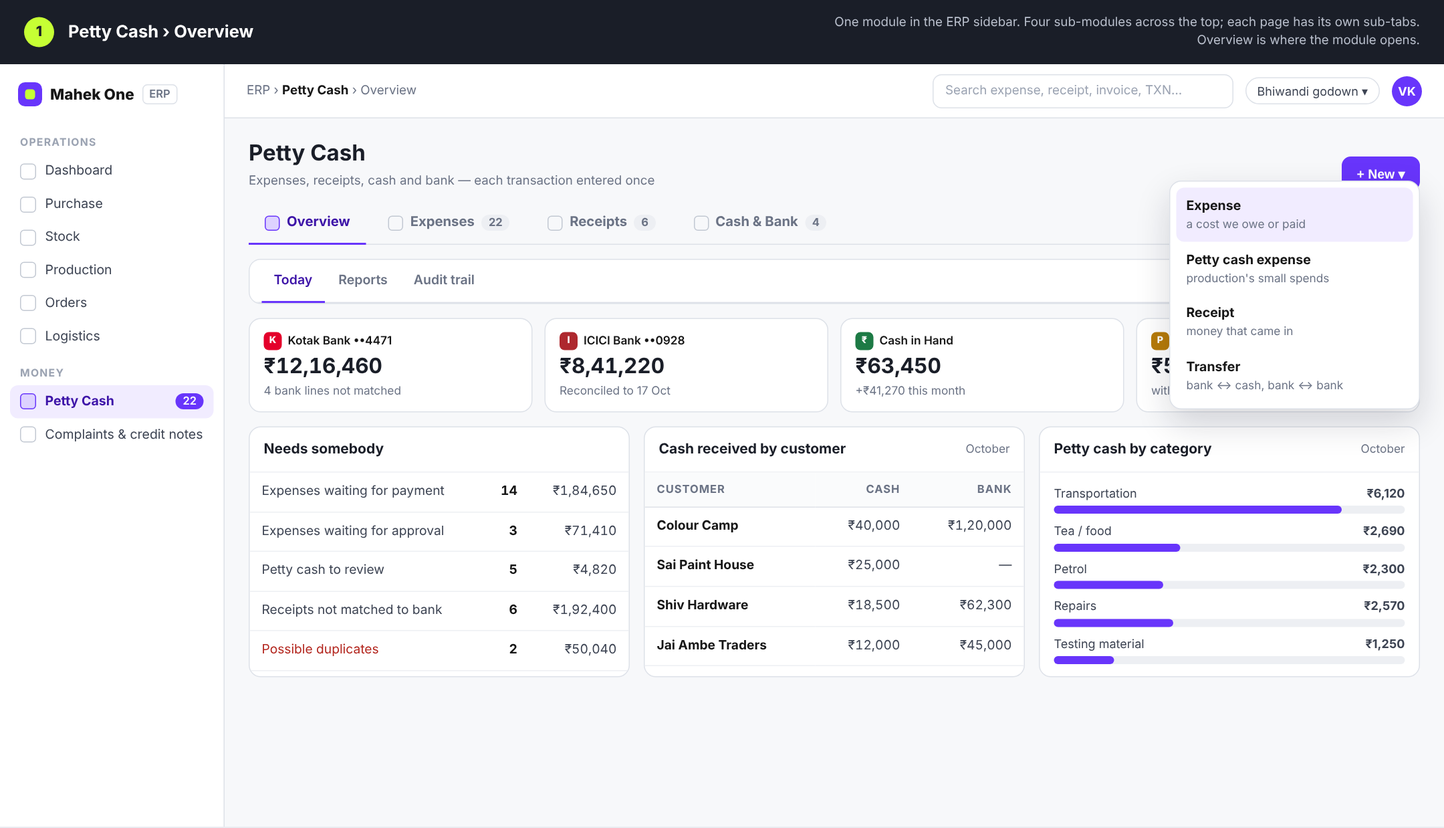
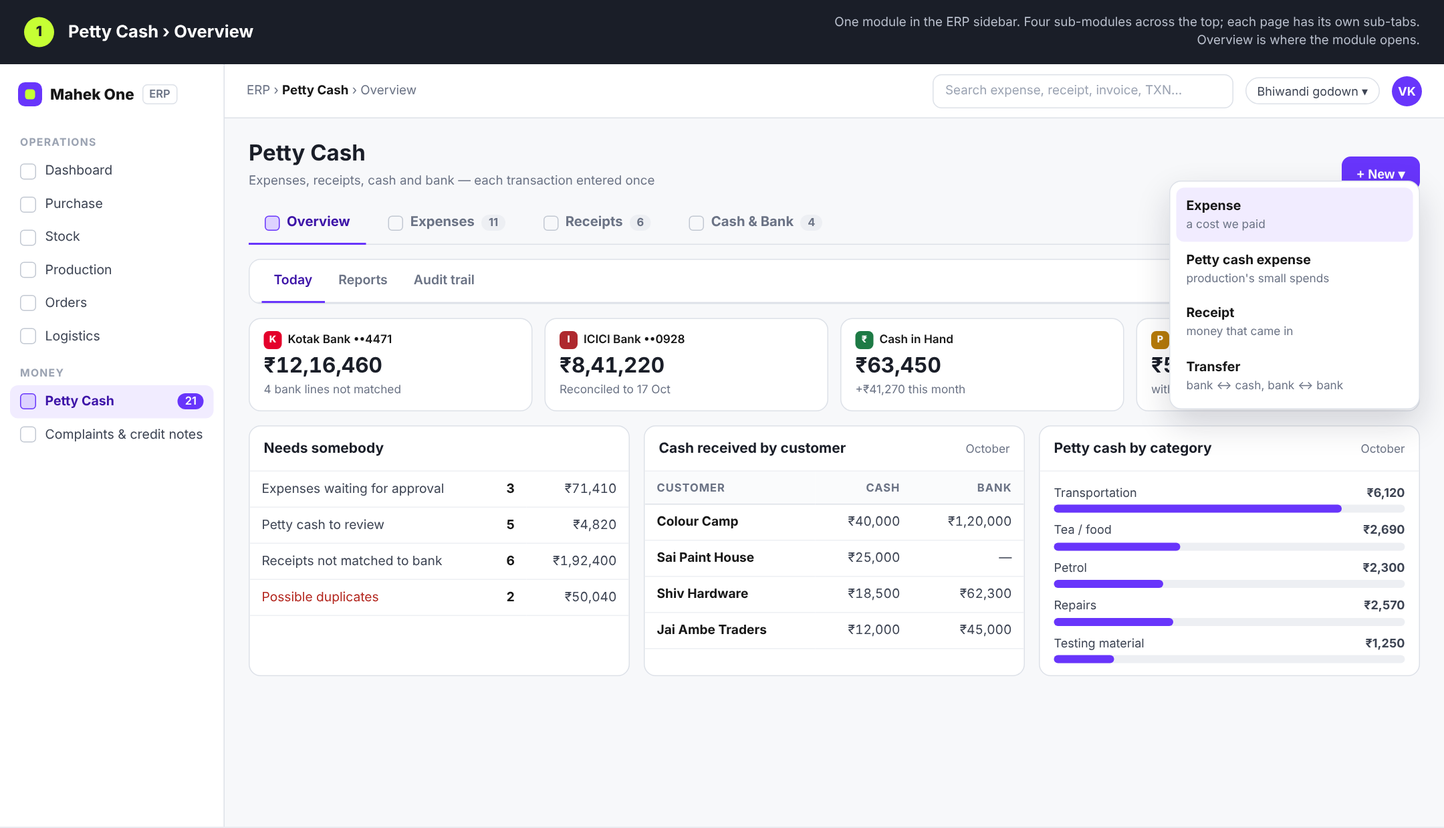
docs(erp): petty cash expenses are entered when paid — no pending state
Removes the Not paid / Pending choice, the Pending payment tab and the
Mark as Paid screen; New expense now asks the account, date, mode and UTR.

Claude-Session: https://claude.ai/code/session_01Lrq5JNPk5tZnbbz81iA7vf

diff --git a/docs/erp/money-flow/mockup.html b/docs/erp/money-flow/mockup.html
@@ -190,7 +190,7 @@ tr.sel td{background:var(--brand-soft)}
    </div>
    <div style="display:grid;grid-template-columns:1fr 1fr 1fr;gap:14px">
     <div class="card"><div class="dh" style="padding:12px 14px"><h3 style="font-size:14px">Needs somebody</h3></div>
-     <table><tr><td>Expenses waiting for payment</td><td class="r"><b>14</b></td><td class="r">₹1,84,650</td></tr><tr><td>Expenses waiting for approval</td><td class="r"><b>3</b></td><td class="r">₹71,410</td></tr><tr><td>Petty cash to review</td><td class="r"><b>5</b></td><td class="r">₹4,820</td></tr><tr><td>Receipts not matched to bank</td><td class="r"><b>6</b></td><td class="r">₹1,92,400</td></tr><tr><td style="color:var(--danger)">Possible duplicates</td><td class="r"><b>2</b></td><td class="r">₹50,040</td></tr></table></div>
+     <table><tr><td>Expenses waiting for approval</td><td class="r"><b>3</b></td><td class="r">₹71,410</td></tr><tr><td>Petty cash to review</td><td class="r"><b>5</b></td><td class="r">₹4,820</td></tr><tr><td>Receipts not matched to bank</td><td class="r"><b>6</b></td><td class="r">₹1,92,400</td></tr><tr><td style="color:var(--danger)">Possible duplicates</td><td class="r"><b>2</b></td><td class="r">₹50,040</td></tr></table></div>
     <div class="card"><div class="dh" style="padding:12px 14px"><h3 style="font-size:14px">Cash received by customer</h3><span class="sm2 ml">October</span></div>
      <table><tr><th>Customer</th><th class="r">Cash</th><th class="r">Bank</th></tr><tr><td><b>Colour Camp</b></td><td class="r">₹40,000</td><td class="r">₹1,20,000</td></tr><tr><td><b>Sai Paint House</b></td><td class="r">₹25,000</td><td class="r">—</td></tr><tr><td><b>Shiv Hardware</b></td><td class="r">₹18,500</td><td class="r">₹62,300</td></tr><tr><td><b>Jai Ambe Traders</b></td><td class="r">₹12,000</td><td class="r">₹45,000</td></tr></table></div>
     <div class="card"><div class="dh" style="padding:12px 14px"><h3 style="font-size:14px">Petty cash by category</h3><span class="sm2 ml">October</span></div>
@@ -203,7 +203,7 @@ tr.sel td{background:var(--brand-soft)}
      </div></div>
    </div>
    <div class="newmenu">
-    <div class="h"><b>Expense</b><span>a cost we owe or paid</span></div>
+    <div class="h"><b>Expense</b><span>a cost we paid</span></div>
     <div><b>Petty cash expense</b><span>production's small spends</span></div>
     <div><b>Receipt</b><span>money that came in</span></div>
     <div><b>Transfer</b><span>bank ↔ cash, bank ↔ bank</span></div>
@@ -215,7 +215,7 @@ tr.sel td{background:var(--brand-soft)}
 
 <!-- ============ 2. EXPENSES LIST ============ -->
 <section class="shot" id="s2">
-<div class="cap"><div class="n">2</div><h1>Petty Cash › Expenses — Pending payment</h1><p>Pending, Paid, Production petty cash and the rest are sub-tabs of one list. A pending expense moves no balance.</p></div>
+<div class="cap"><div class="n">2</div><h1>Petty Cash › Expenses — Paid</h1><p>An expense is entered when it is paid, so every row already says which account the money left. Production petty cash, Advances and the rest are sub-tabs of the same list.</p></div>
 <div class="app">
  <aside class="side" data-on="Petty Cash"></aside>
  <div class="main">
@@ -223,16 +223,16 @@ tr.sel td{background:var(--brand-soft)}
   <div class="pg">
    <div class="modhead" data-sub="Expenses"></div>
    <div class="card">
-    <div class="tabs"><div class="tab on">Pending payment<span class="c">14</span></div><div class="tab">Paid<span class="c">58</span></div><div class="tab">Production petty cash<span class="c">5</span></div><div class="tab">Advances<span class="c">3</span></div><div class="tab">Needs approval<span class="c">3</span></div><div class="tab">Cancelled<span class="c">1</span></div><div class="tab">All</div></div>
-    <div class="tool"><div class="in" style="width:200px">This month ▾</div><div class="in" style="width:180px">Category: All ▾</div><div class="in" style="width:180px">Vendor: All ▾</div><div class="ml sm2">14 rows · ₹1,84,650</div><button class="btn">Export</button></div>
+    <div class="tabs"><div class="tab on">Paid<span class="c">58</span></div><div class="tab">Production petty cash<span class="c">5</span></div><div class="tab">Advances<span class="c">3</span></div><div class="tab">Needs approval<span class="c">3</span></div><div class="tab">Cancelled<span class="c">1</span></div><div class="tab">All</div></div>
+    <div class="tool"><div class="in" style="width:200px">This month ▾</div><div class="in" style="width:180px">Category: All ▾</div><div class="in" style="width:180px">Vendor: All ▾</div><div class="in" style="width:180px">Paid from: All ▾</div><div class="ml sm2">58 rows · ₹6,42,310</div><button class="btn">Export</button></div>
     <table>
-     <tr><th>TXN ID</th><th>Date</th><th>Category</th><th>Vendor / payee</th><th>Invoice no.</th><th>Description</th><th class="r">Amount</th><th>Status</th><th>Due</th><th></th></tr>
-     <tr class="hl"><td class="mono">TXN-26-00418</td><td>18 Oct</td><td>Packing material</td><td><b>Shree Packaging Co.</b></td><td>SPC/2627/0912</td><td>500 × 5L corrugated boxes</td><td class="r"><b>₹48,500</b></td><td><span class="pill pend">Pending</span></td><td style="color:var(--danger);font-weight:600">2 days late</td><td><button class="btn sm ok">Mark as Paid</button></td></tr>
-     <tr><td class="mono">TXN-26-00415</td><td>17 Oct</td><td>Repairs &amp; maintenance</td><td><b>Om Sai Engineering</b></td><td>OSE-221</td><td>Mixer gearbox repair</td><td class="r"><b>₹22,800</b></td><td><span class="pill pend">Pending</span></td><td>24 Oct</td><td><button class="btn sm ok">Mark as Paid</button></td></tr>
-     <tr><td class="mono">TXN-26-00411</td><td>16 Oct</td><td>Electricity</td><td><b>MSEDCL</b></td><td>0411829366</td><td>Factory bill — Sep</td><td class="r"><b>₹63,140</b></td><td><span class="pill pend">Pending</span></td><td>21 Oct</td><td><button class="btn sm ok">Mark as Paid</button></td></tr>
-     <tr><td class="mono">TXN-26-00402</td><td>12 Oct</td><td>Rent</td><td><b>Patel Estates</b></td><td>PE/OCT/26</td><td>Godown rent — Oct</td><td class="r"><b>₹36,000</b></td><td><span class="pill pend">Pending</span></td><td>20 Oct</td><td><button class="btn sm ok">Mark as Paid</button></td></tr>
-     <tr><td class="mono">TXN-26-00399</td><td>11 Oct</td><td>Packing material</td><td><b>Shree Packaging Co.</b></td><td>SPC/2627/0912</td><td>500 × 5L corrugated boxes</td><td class="r"><b>₹48,500</b></td><td><span class="pill unm">Possible duplicate</span></td><td>—</td><td><span class="link">Review</span></td></tr>
-     <tr><td class="mono">TXN-26-00396</td><td>10 Oct</td><td>Freight</td><td><b>VRL Logistics</b></td><td>VRL/BH/88104</td><td>Inward freight — MEK</td><td class="r"><b>₹9,860</b></td><td><span class="pill pend">Pending</span></td><td>27 Oct</td><td><button class="btn sm ok">Mark as Paid</button></td></tr>
+     <tr><th>TXN ID</th><th>Date</th><th>Category</th><th>Vendor / payee</th><th>Invoice no.</th><th class="r">Amount</th><th>Paid from</th><th>Bank match</th></tr>
+     <tr class="hl"><td class="mono">TXN-26-00418</td><td>18 Oct</td><td>Packing material</td><td><b>Shree Packaging Co.</b></td><td>SPC/2627/0912</td><td class="r"><b>₹48,500</b></td><td><span class="acc"><i class="k">K</i>Kotak · NEFT</span></td><td><span class="pill pend">Not matched</span></td></tr>
+<tr><td class="mono">TXN-26-00415</td><td>17 Oct</td><td>Repairs &amp; maintenance</td><td><b>Om Sai Engineering</b></td><td>OSE-221</td><td class="r"><b>₹22,800</b></td><td><span class="acc"><i class="ic">I</i>ICICI · cheque 004127</span></td><td><span class="pill mat">Matched</span></td></tr>
+<tr><td class="mono">TXN-26-00411</td><td>16 Oct</td><td>Electricity</td><td><b>MSEDCL</b></td><td>0411829366</td><td class="r"><b>₹63,140</b></td><td><span class="acc"><i class="k">K</i>Kotak · UPI</span></td><td><span class="pill mat">Matched</span></td></tr>
+<tr><td class="mono">TXN-26-00402</td><td>12 Oct</td><td>Rent</td><td><b>Patel Estates</b></td><td>PE/OCT/26</td><td class="r"><b>₹36,000</b></td><td><span class="acc"><i class="ic">I</i>ICICI · NEFT</span></td><td><span class="pill mat">Matched</span></td></tr>
+<tr><td class="mono">TXN-26-00399</td><td>11 Oct</td><td>Packing material</td><td><b>Shree Packaging Co.</b></td><td>SPC/2627/0912</td><td class="r"><b>₹48,500</b></td><td><span class="acc"><i class="k">K</i>Kotak · NEFT</span></td><td><span class="pill unm">Duplicate?</span></td></tr>
+<tr><td class="mono">TXN-26-00396</td><td>10 Oct</td><td>Freight</td><td><b>VRL Logistics</b></td><td>VRL/BH/88104</td><td class="r"><b>₹9,860</b></td><td><span class="acc"><i class="ca">₹</i>Cash in Hand</span></td><td><span class="sm2">Cash — none</span></td></tr>
     </table>
    </div>
   </div>
@@ -242,7 +242,7 @@ tr.sel td{background:var(--brand-soft)}
 
 <!-- ============ 3. NEW EXPENSE ============ -->
 <section class="shot" id="s3">
-<div class="cap"><div class="n">3</div><h1>Petty Cash › Expenses — New expense</h1><p>Invoice number is required. "Not paid yet" saves it as Pending; "Paid now" asks which account it left.</p></div>
+<div class="cap"><div class="n">3</div><h1>Petty Cash › Expenses — New expense</h1><p>An expense is entered when it is paid — there is no "not paid" state. Invoice number is required, and the entry says which account the money left.</p></div>
 <div class="app">
  <aside class="side" data-on="Petty Cash"></aside>
  <div class="main">
@@ -264,7 +264,18 @@ tr.sel td{background:var(--brand-soft)}
       <div class="f"><label>Description / purpose <em>*</em></label><div class="box">500 × 5L corrugated boxes</div></div>
      </div>
      <div class="note r" style="margin-bottom:14px"><b>⚠</b><div><b>Looks like a duplicate.</b> Same invoice number, vendor and amount as TXN-26-00399. <span class="link">Open it</span> · or tick <b>"This is a different invoice"</b> to save anyway.</div></div>
-     <div class="f" style="margin-bottom:12px"><label>Payment status <em>*</em></label><div class="seg" style="width:420px"><span class="on">Not paid yet — Pending</span><span>Paid now</span></div><div class="hint">Pending moves no bank or cash balance. Mark it Paid from the list when it's paid.</div></div>
+     <div class="f" style="margin-bottom:8px"><label>Paid from <em>*</em></label></div>
+     <div class="grid" style="grid-template-columns:repeat(4,1fr);gap:8px;margin-bottom:12px">
+      <div class="cand best" style="margin:0;flex-direction:column;align-items:flex-start;gap:2px"><span class="acc"><i class="k">K</i>Kotak Bank</span><span class="sm2">₹12,16,460 → ₹11,67,960</span></div>
+      <div class="cand" style="margin:0;flex-direction:column;align-items:flex-start;gap:2px"><span class="acc"><i class="ic">I</i>ICICI Bank</span><span class="sm2">₹8,41,220</span></div>
+      <div class="cand" style="margin:0;flex-direction:column;align-items:flex-start;gap:2px"><span class="acc"><i class="ca">₹</i>Cash in Hand</span><span class="sm2">₹63,450</span></div>
+      <div class="cand" style="margin:0;flex-direction:column;align-items:flex-start;gap:2px"><span class="acc"><i class="pt">P</i>Petty Cash</span><span class="sm2">₹5,470</span></div>
+     </div>
+     <div class="grid g3" style="margin-bottom:14px">
+      <div class="f"><label>Paid on <em>*</em></label><div class="box">18 Oct 2026</div></div>
+      <div class="f"><label>Mode <em>*</em></label><div class="box sel">NEFT</div></div>
+      <div class="f"><label>UTR / cheque / reference</label><div class="box">KKBKH26291004812</div><div class="hint">Used to match the Kotak statement line</div></div>
+     </div>
      <div class="grid g2">
       <div class="f"><label>Invoice / supporting document</label><div class="file"><i>PDF</i>SPC-2627-0912.pdf<span class="sm2 ml">212 KB</span></div></div>
       <div class="f"><label>Notes</label><div class="box ph">Optional</div></div>
@@ -277,44 +288,9 @@ tr.sel td{background:var(--brand-soft)}
 </div>
 </section>
 
-<!-- ============ 4. MARK AS PAID ============ -->
-<section class="shot" id="s4">
-<div class="cap"><div class="n">4</div><h1>Petty Cash › Expenses — Mark as Paid</h1><p>The same TXN flips to Paid. It posts once to the chosen account and waits to be matched on that bank's statement.</p></div>
-<div class="app">
- <aside class="side" data-on="Petty Cash"></aside>
- <div class="main">
-  <div class="top"><div class="crumb">ERP › Petty Cash › <b>Expenses</b></div><div class="search">Search…</div><div class="av">DP</div></div>
-  <div class="pg" style="min-height:780px">
-   <div class="modhead" data-sub="Expenses"></div><div class="card" style="height:300px"></div>
-   <div class="veil"></div>
-   <div class="dlg" style="left:200px;top:30px;width:780px">
-    <div class="dh"><h3>Mark as Paid</h3><span class="mono" style="font-size:12px">TXN-26-00418</span><span class="x">✕</span></div>
-    <div class="db">
-     <div class="note i" style="margin-bottom:14px"><div><b>Shree Packaging Co.</b> · Invoice SPC/2627/0912 · Packing material · <b>₹48,500</b> · Pending since 18 Oct</div></div>
-     <div class="grid g3" style="margin-bottom:14px">
-      <div class="f"><label>Payment date <em>*</em></label><div class="box">20 Oct 2026</div></div>
-      <div class="f"><label>Paid from <em>*</em></label><div class="box sel focus"><span class="acc"><i class="k">K</i>Kotak Bank ••4471</span></div></div>
-      <div class="f"><label>UTR / reference</label><div class="box">KKBKN26293004118</div></div>
-     </div>
-     <div class="f" style="margin-bottom:6px"><label>Balance on the account you picked</label></div>
-     <div class="bal" style="margin-bottom:14px">
-      <div><div class="l">Kotak Bank now</div><div class="v">₹12,84,960</div></div>
-      <div><div class="l">This payment</div><div class="v" style="color:var(--danger)">− ₹48,500</div></div>
-      <div><div class="l">Kotak Bank after</div><div class="v">₹12,36,460</div></div>
-     </div>
-     <div class="sm2" style="margin-bottom:8px">Other accounts: <span class="acc"><i class="ic">I</i>ICICI ₹8,41,220</span> · <span class="acc"><i class="ca">₹</i>Cash in Hand ₹38,450</span> · <span class="acc"><i class="pt">P</i>Petty Cash ₹6,720</span></div>
-     <div class="note o"><b>✓</b><div>Posts once: <b>Vendor Payable − ₹48,500</b> and <b>Kotak Bank − ₹48,500</b>. It then waits on <b>Accounts → Bank statement → Kotak</b> to be matched to the debit line. The expense stays one record.</div></div>
-    </div>
-    <div class="df"><span class="sm2">Paid by Deepa P (Accounts)</span><button class="btn ml">Cancel</button><button class="btn ok">Confirm payment ₹48,500</button></div>
-   </div>
-  </div>
- </div>
-</div>
-</section>
-
 <!-- ============ 5. PRODUCTION PETTY CASH ============ -->
-<section class="shot" id="s5">
-<div class="cap"><div class="n">5</div><h1>Petty Cash › Expenses — Production petty cash</h1><p>The Production Head's small spends are a sub-tab of Expenses, not a separate screen. Each one is the single expense record, linked to how it was paid.</p></div>
+<section class="shot" id="s4">
+<div class="cap"><div class="n">4</div><h1>Petty Cash › Expenses — Production petty cash</h1><p>The Production Head's small spends are a sub-tab of Expenses, not a separate screen. Each one is the single expense record, linked to how it was paid.</p></div>
 <div class="app">
  <aside class="side" data-on="Petty Cash"></aside>
  <div class="main">
@@ -322,7 +298,7 @@ tr.sel td{background:var(--brand-soft)}
   <div class="pg" style="min-height:880px">
    <div class="modhead" data-sub="Expenses"></div>
    <div class="card">
-    <div class="tabs"><div class="tab">Pending payment<span class="c">14</span></div><div class="tab">Paid<span class="c">58</span></div><div class="tab on">Production petty cash<span class="c">5</span></div><div class="tab">Advances<span class="c">3</span></div><div class="tab">Needs approval<span class="c">3</span></div><div class="tab">Cancelled<span class="c">1</span></div><div class="tab">All</div></div>
+    <div class="tabs"><div class="tab">Paid<span class="c">58</span></div><div class="tab on">Production petty cash<span class="c">5</span></div><div class="tab">Advances<span class="c">3</span></div><div class="tab">Needs approval<span class="c">3</span></div><div class="tab">Cancelled<span class="c">1</span></div><div class="tab">All</div></div>
     <table><tr><th>TXN ID</th><th>Date</th><th>Category</th><th>Paid to</th><th>Bill no.</th><th>Paid from</th><th class="r">Amount</th><th>Status</th></tr>
     <tr><td class="mono">TXN-26-00423</td><td>19 Oct</td><td>Petrol</td><td><b>HP Petrol Pump</b></td><td>HP-77120</td><td><span class="acc"><i class="ca">₹</i>Cash · Sai Paint House rcpt</span></td><td class="r"><b>₹2,300</b></td><td><span class="pill drf">To review</span></td></tr>
     <tr><td class="mono">TXN-26-00410</td><td>18 Oct</td><td>Tea / food</td><td><b>Ramesh Tea Stall</b></td><td>RT-18</td><td><span class="acc"><i class="k">K</i>Kotak GPay</span></td><td class="r"><b>₹640</b></td><td><span class="pill drf">To review</span></td></tr>
@@ -359,8 +335,8 @@ tr.sel td{background:var(--brand-soft)}
 </section>
 
 <!-- ============ 6. RECEIPTS ============ -->
-<section class="shot" id="s6">
-<div class="cap"><div class="n">6</div><h1>Petty Cash › Receipts — New receipt</h1><p>Who paid and where the money landed. A cash receipt shows the customer and the new cash balance; a bank receipt waits for its statement line.</p></div>
+<section class="shot" id="s5">
+<div class="cap"><div class="n">5</div><h1>Petty Cash › Receipts — New receipt</h1><p>Who paid and where the money landed. A cash receipt shows the customer and the new cash balance; a bank receipt waits for its statement line.</p></div>
 <div class="app">
  <aside class="side" data-on="Petty Cash"></aside>
  <div class="main">
@@ -408,8 +384,8 @@ tr.sel td{background:var(--brand-soft)}
 </section>
 
 <!-- ============ 7. CASH & BANK – TRANSFERS ============ -->
-<section class="shot" id="s7">
-<div class="cap"><div class="n">7</div><h1>Petty Cash › Cash &amp; Bank — Transfers</h1><p>Moving our own money. A withdrawal is not an expense. Both legs carry one Transaction ID, post together and reverse together.</p></div>
+<section class="shot" id="s6">
+<div class="cap"><div class="n">6</div><h1>Petty Cash › Cash &amp; Bank — Transfers</h1><p>Moving our own money. A withdrawal is not an expense. Both legs carry one Transaction ID, post together and reverse together.</p></div>
 <div class="app">
  <aside class="side" data-on="Petty Cash"></aside>
  <div class="main">
@@ -455,8 +431,8 @@ tr.sel td{background:var(--brand-soft)}
 </section>
 
 <!-- ============ 8. CASH & BANK – CASH STATEMENT ============ -->
-<section class="shot" id="s8">
-<div class="cap"><div class="n">8</div><h1>Petty Cash › Cash &amp; Bank — Cash statement</h1><p>Each account's statement is a sub-tab here. Closing = Opening + Cash in − Cash out. Opening a cash receipt shows where that cash went.</p></div>
+<section class="shot" id="s7">
+<div class="cap"><div class="n">7</div><h1>Petty Cash › Cash &amp; Bank — Cash statement</h1><p>Each account's statement is a sub-tab here. Closing = Opening + Cash in − Cash out. Opening a cash receipt shows where that cash went.</p></div>
 <div class="app">
  <aside class="side" data-on="Petty Cash"></aside>
  <div class="main">
@@ -509,8 +485,8 @@ tr.sel td{background:var(--brand-soft)}
 </section>
 
 <!-- ============ 9. ACCOUNTS BANK STATEMENT ============ -->
-<section class="shot" id="s9">
-<div class="cap"><div class="n">9</div><h1>Accounts app › Bank statement (existing) — match, don't re-enter</h1><p>Reconciliation stays on the existing Accounts screen. Each Kotak / ICICI line is matched to a transaction the Petty Cash module already holds.</p></div>
+<section class="shot" id="s8">
+<div class="cap"><div class="n">8</div><h1>Accounts app › Bank statement (existing) — match, don't re-enter</h1><p>Reconciliation stays on the existing Accounts screen. Each Kotak / ICICI line is matched to a transaction the Petty Cash module already holds.</p></div>
 <div class="app">
  <aside class="side" data-app="accounts" data-on="Bank statement"></aside>
  <div class="main">
@@ -537,7 +513,7 @@ tr.sel td{background:var(--brand-soft)}
      <div style="font-weight:700;color:#1a1e28">Match this line</div>
      <div class="sm2">20 Oct · Kotak debit ₹48,500 · NEFT-SHREE PACKAGING CO</div>
      <div class="cand best"><span class="score" style="background:var(--ok-soft);color:var(--ok)">Exact</span><div style="flex:1"><b style="color:var(--ink)">Expense · Shree Packaging Co.</b><div class="sm2"><span class="mono">TXN-26-00418</span> · Paid 20 Oct · Kotak · UTR matches</div></div><button class="btn sm p">Match</button></div>
-     <div class="cand"><span class="score" style="background:var(--warn-soft);color:var(--warn-ink)">Amount</span><div style="flex:1"><b style="color:var(--ink)">Expense · Shree Packaging Co.</b><div class="sm2"><span class="mono">TXN-26-00399</span> · Pending · possible duplicate</div></div><button class="btn sm">Match</button></div>
+     <div class="cand"><span class="score" style="background:var(--warn-soft);color:var(--warn-ink)">Amount</span><div style="flex:1"><b style="color:var(--ink)">Expense · Shree Packaging Co.</b><div class="sm2"><span class="mono">TXN-26-00399</span> · Paid · possible duplicate</div></div><button class="btn sm">Match</button></div>
      <div style="margin-top:12px;font-size:12px;color:var(--muted)">Covers several bills? <span class="link">Split across transactions</span> — must add up to ₹48,500.</div>
      <div style="border-top:1px solid var(--div);margin-top:12px;padding-top:10px;font-size:12px;color:var(--muted)">Nothing represents it? <span class="link">Create transaction from this line</span><br><span class="sm2">Only offered when no match exists · Accounts only</span></div>
     </div>
@@ -555,8 +531,8 @@ tr.sel td{background:var(--brand-soft)}
 </section>
 
 <!-- ============ 10. ADVANCES – LIST + ISSUE ============ -->
-<section class="shot" id="s10">
-<div class="cap"><div class="n">10</div><h1>Petty Cash › Expenses — Advances</h1><p>A lump sum handed to an employee is an advance, not an expense. Issuing it moves money from Petty Cash to that person's advance; it becomes expense only as their bills are approved.</p></div>
+<section class="shot" id="s9">
+<div class="cap"><div class="n">9</div><h1>Petty Cash › Expenses — Advances</h1><p>A lump sum handed to an employee is an advance, not an expense. Issuing it moves money from Petty Cash to that person's advance; it becomes expense only as their bills are approved.</p></div>
 <div class="app">
  <aside class="side" data-on="Petty Cash"></aside>
  <div class="main">
@@ -564,7 +540,7 @@ tr.sel td{background:var(--brand-soft)}
   <div class="pg" style="min-height:900px">
    <div class="modhead" data-sub="Expenses"></div>
    <div class="card">
-    <div class="tabs"><div class="tab">Pending payment<span class="c">14</span></div><div class="tab">Paid<span class="c">58</span></div><div class="tab">Production petty cash<span class="c">5</span></div><div class="tab on">Advances<span class="c">3</span></div><div class="tab">Needs approval<span class="c">3</span></div><div class="tab">All</div></div>
+    <div class="tabs"><div class="tab">Paid<span class="c">58</span></div><div class="tab">Production petty cash<span class="c">5</span></div><div class="tab on">Advances<span class="c">3</span></div><div class="tab">Needs approval<span class="c">3</span></div><div class="tab">All</div></div>
     <table><tr><th>Advance</th><th>Given to</th><th>Issued</th><th>From</th><th class="r">Given</th><th class="r">Bills approved</th><th class="r">Bills to review</th><th class="r">Still with them</th><th>Status</th></tr>
     <tr><td class="mono">ADV-26-0031</td><td><b>Suresh K</b><div class="sm2">Mixing &amp; Blending</div></td><td>14 Oct</td><td><span class="acc"><i class="pt">P</i>Petty Cash</span></td><td class="r"><b>₹5,000</b></td><td class="r">₹2,860</td><td class="r">₹1,540</td><td class="r"><b>₹600</b></td><td><span class="pill drf">Bills to review</span></td></tr>
     <tr><td class="mono">ADV-26-0029</td><td><b>Anil P</b><div class="sm2">Dispatch</div></td><td>10 Oct</td><td><span class="acc"><i class="ca">₹</i>Cash in Hand</span></td><td class="r"><b>₹3,000</b></td><td class="r">₹1,200</td><td class="r">₹1,920</td><td class="r"><b style="color:var(--danger)">−₹120</b><div class="sm2">owed to him</div></td><td><span class="pill drf">Bills to review</span></td></tr>
@@ -600,8 +576,8 @@ tr.sel td{background:var(--brand-soft)}
 </section>
 
 <!-- ============ 11. EMPLOYEE SUBMITS BILLS ============ -->
-<section class="shot" id="s11">
-<div class="cap"><div class="n">11</div><h1>Petty Cash › Expenses › Advances — Submit bills</h1><p>The employee opens his own advance and uploads where the money went, a photo per bill. Each line becomes an expense record, drawn from the advance rather than from Petty Cash.</p></div>
+<section class="shot" id="s10">
+<div class="cap"><div class="n">10</div><h1>Petty Cash › Expenses › Advances — Submit bills</h1><p>The employee opens his own advance and uploads where the money went, a photo per bill. Each line becomes an expense record, drawn from the advance rather than from Petty Cash.</p></div>
 <div class="app">
  <aside class="side" data-on="Petty Cash"></aside>
  <div class="main">
@@ -634,8 +610,8 @@ tr.sel td{background:var(--brand-soft)}
 </section>
 
 <!-- ============ 12. REVIEW + SETTLE ============ -->
-<section class="shot" id="s12">
-<div class="cap"><div class="n">12</div><h1>Petty Cash › Expenses › Advances — Review and settle</h1><p>The Accountant approves each bill. When nothing is left to review, the advance is settled: unspent cash comes back to Petty Cash, or an overspend is paid back to the employee — one transaction each way.</p></div>
+<section class="shot" id="s11">
+<div class="cap"><div class="n">11</div><h1>Petty Cash › Expenses › Advances — Review and settle</h1><p>The Accountant approves each bill. When nothing is left to review, the advance is settled: unspent cash comes back to Petty Cash, or an overspend is paid back to the employee — one transaction each way.</p></div>
 <div class="app">
  <aside class="side" data-on="Petty Cash"></aside>
  <div class="main">
@@ -682,7 +658,7 @@ tr.sel td{background:var(--brand-soft)}
 </section>
 
 <script>
-const ERP=[["OPERATIONS",null],["Dashboard",""],["Purchase",""],["Stock",""],["Production",""],["Orders",""],["Logistics",""],["MONEY",null],["Petty Cash","22"],["Complaints & credit notes",""]];
+const ERP=[["OPERATIONS",null],["Dashboard",""],["Purchase",""],["Stock",""],["Production",""],["Orders",""],["Logistics",""],["MONEY",null],["Petty Cash","21"],["Complaints & credit notes",""]];
 const ACC=[["ACCOUNTS",null],["Today",""],["Order approvals",""],["Payments to confirm",""],["Outstanding",""],["Bills",""],["Bank statement","4"],["Cash flow",""]];
 document.querySelectorAll('aside.side').forEach(a=>{
  const on=a.dataset.on;const acc=a.dataset.app==='accounts';
@@ -690,7 +666,7 @@ document.querySelectorAll('aside.side').forEach(a=>{
  for(const [n,c] of (acc?ACC:ERP)){ if(c===null){h+=`<div class="grp">${n}</div>`;continue;}
   h+=`<div class="nav${n===on?' on':''}"><b></b>${n}${c?`<span class="c">${c}</span>`:''}</div>`;}
  a.innerHTML=h;});
-const SUBS=[["Overview",""],["Expenses","22"],["Receipts","6"],["Cash & Bank","4"]];
+const SUBS=[["Overview",""],["Expenses","11"],["Receipts","6"],["Cash & Bank","4"]];
 document.querySelectorAll('.modhead').forEach(m=>{
  const on=m.dataset.sub.replace('&amp;','&');
  m.innerHTML='<div><h2>Petty Cash</h2><div class="sub">Expenses, receipts, cash and bank — each transaction entered once</div></div><button class="btn p ml">+ New ▾</button>';

diff --git a/docs/erp/money-flow/README.md b/docs/erp/money-flow/README.md
@@ -12,7 +12,7 @@ across the top, and each page keeps its lists as sub-tabs:
 | Sub-module | Sub-tabs |
 |---|---|
 | Overview (opens here) | Today · Reports · Audit trail |
-| Expenses | Pending payment · Paid · Production petty cash · Advances · Needs approval · Cancelled · All |
+| Expenses | Paid · Production petty cash · Advances · Needs approval · Cancelled · All |
 | Receipts | All · Bank · Cash · Not matched to bank |
 | Cash & Bank | Transfers · Kotak · ICICI · Cash · Petty Cash (account statements) |
 
@@ -22,7 +22,8 @@ second bank statement screen is built.
 ## The rule
 
 One real movement of money is entered once, gets one Transaction ID, and posts
-to the ledgers once. A pending expense moves no balance. Transfers between our
+to the ledgers once. An expense is entered when it is paid, so there is no
+"not paid" or pending state: every expense names the account the money left. Transfers between our
 own accounts are never income or expense. Bank lines are matched, not re-entered.
 
 ## Advances to employees
@@ -41,16 +42,15 @@ with no receipt needs a written reason and is flagged for the Accountant.
 | # | Screen | Image |
 |---|---|---|
 | 1 | Overview › Today | ![](01-overview.png) |
-| 2 | Expenses › Pending payment | ![](02-expenses-pending.png) |
+| 2 | Expenses › Paid | ![](02-expenses-paid.png) |
 | 3 | Expenses › New expense | ![](03-expenses-new.png) |
-| 4 | Expenses › Mark as Paid | ![](04-expenses-mark-paid.png) |
-| 5 | Expenses › Production petty cash | ![](05-expenses-production-petty-cash.png) |
-| 10 | Expenses › Advances › Give an advance | ![](10-expenses-advances-give.png) |
-| 11 | Advances › Employee submits bills | ![](11-advances-submit-bills.png) |
-| 12 | Advances › Review and settle | ![](12-advances-review-settle.png) |
-| 6 | Receipts › New receipt | ![](06-receipts-new.png) |
-| 7 | Cash & Bank › Transfers | ![](07-cash-bank-transfers.png) |
-| 8 | Cash & Bank › Cash statement | ![](08-cash-bank-cash-statement.png) |
-| 9 | Accounts › Bank statement (existing) | ![](09-accounts-bank-statement.png) |
+| 4 | Expenses › Production petty cash | ![](04-expenses-production-petty-cash.png) |
+| 5 | Receipts › New receipt | ![](05-receipts-new.png) |
+| 6 | Cash & Bank › Transfers | ![](06-cash-bank-transfers.png) |
+| 7 | Cash & Bank › Cash statement | ![](07-cash-bank-cash-statement.png) |
+| 8 | Accounts › Bank statement (existing) | ![](08-accounts-bank-statement.png) |
+| 9 | Expenses › Advances › Give an advance | ![](09-advances-give.png) |
+| 10 | Advances › Employee submits bills | ![](10-advances-submit-bills.png) |
+| 11 | Advances › Review and settle | ![](11-advances-review-settle.png) |
 
 `mockup.html` is the source. Names, amounts and IDs are placeholders.
